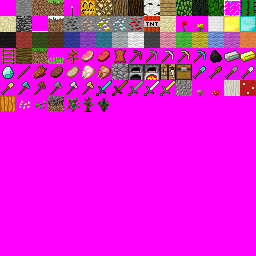
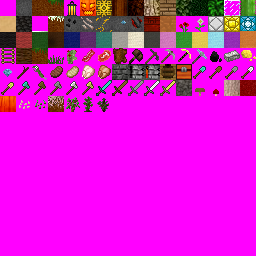
Replaced texture pack with Scary Sauce A few things still need to be added I've added the texture pack's creator to the credits.

Changed region(s): [[0.0, 0.0, 1.0, 0.375], [0.1875, 0.375, 0.25, 0.4375], [0.0, 0.375, 0.0625, 0.4375]]

diff --git a/source/titlescreen.cpp b/source/titlescreen.cpp
@@ -146,18 +146,16 @@ void creditsScreen()
 {
 	uint oldKeys = keysHeld();
 	touchPosition touch;
-	drawBackground();
-	drawButton(11, 8, 9);
-	drawButton(9, 12, 12);
-	drawButton(5, 16, 22);
-	drawButton(7, 20, 17);
-	Button back(25, 19, "Back");
 	consoleClear();
-	printXY(12, 9, "Mine DS");
-	printXY(11, 13, "Coded by");
-	printXY(6, 17, "CoolAs, Ray, Dirbaio,");
-	printXY(9, 21, "and Wolfgange");
-	printXY(26, 20, "Back");
+	drawBackground();
+	Button back(25, 19, "Back");
+	drawBox(4, 7, 24, 11);
+	printXY(12, 9, "Coded by");
+	printXY(6, 10, "CoolAs, Ray, Dirbaio,");
+	printXY(10, 11, "and Wolfgange");
+	printXY(8, 13, "Texture Pack from");
+	printXY(9, 14, "Scary Sauce Pack");
+	printXY(8, 15, "by cool_story_bro");
 	scanKeys();
 	bool chosen = false;
 	while (!chosen)
